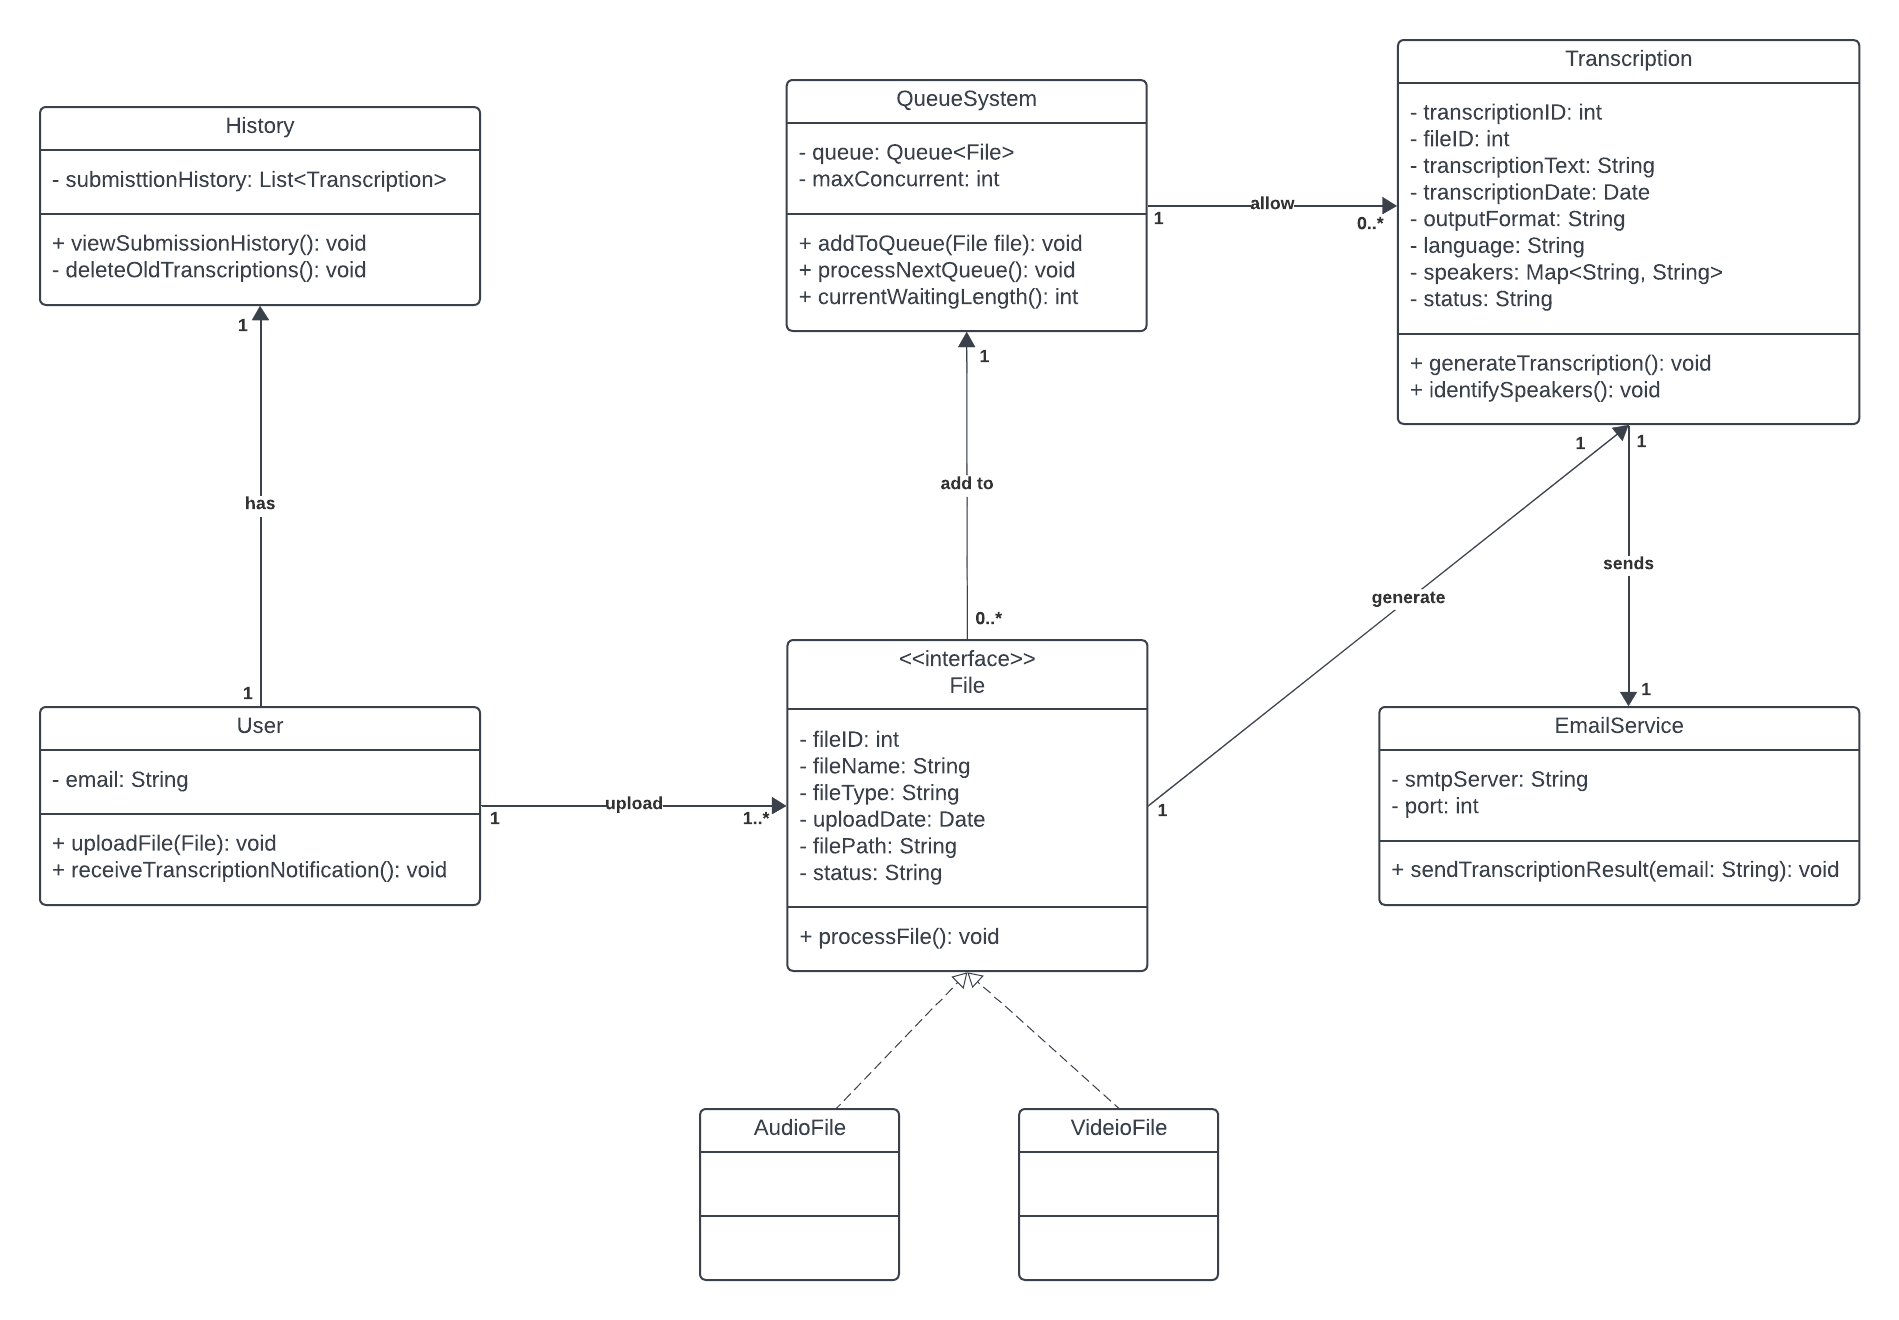
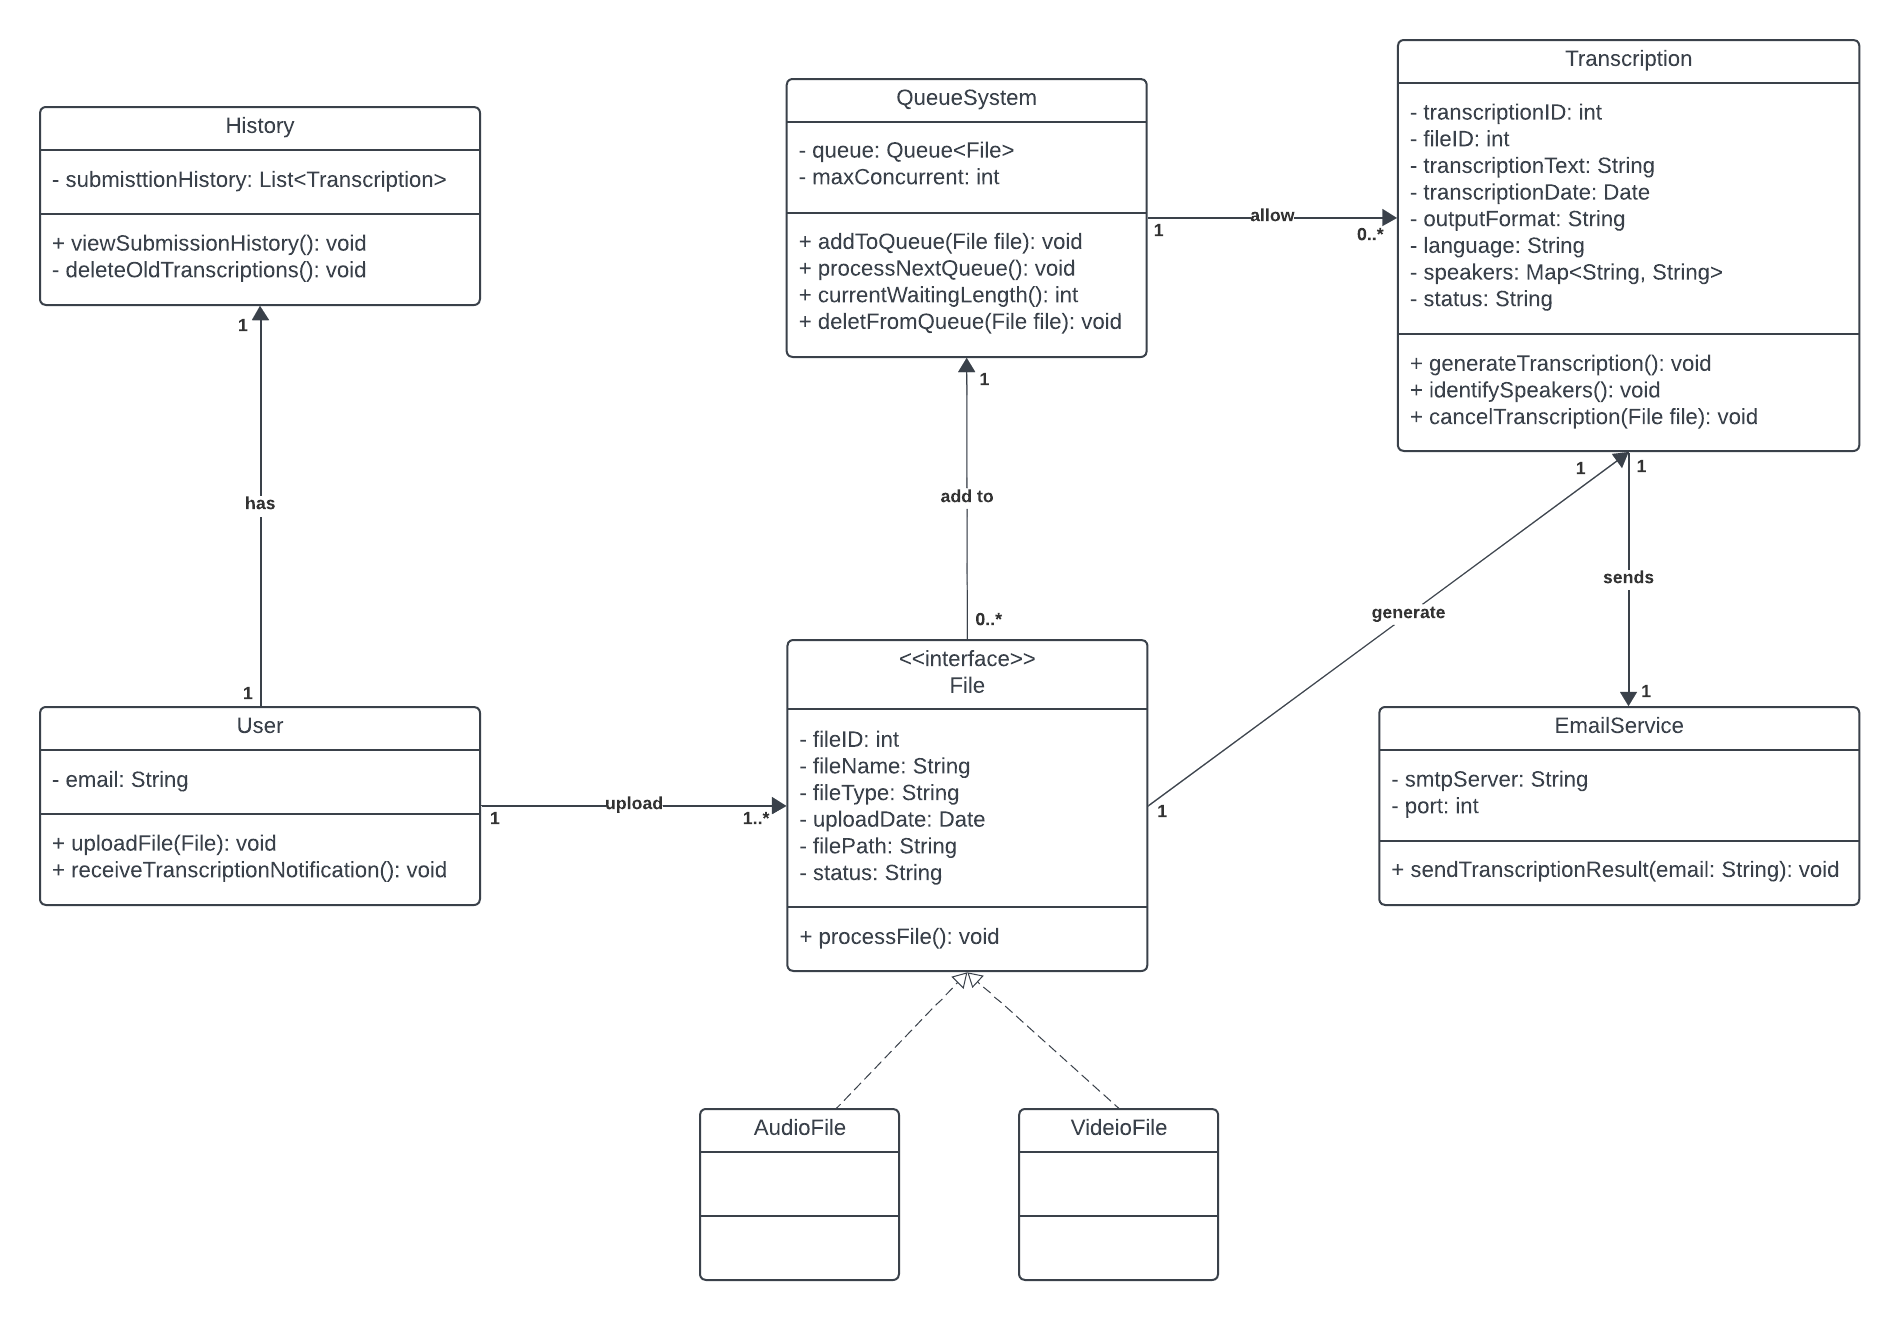
update class diagram

diff --git a/docs/architecture/Class Diagram.md b/docs/architecture/Class Diagram.md
@@ -39,6 +39,7 @@ The class diagram presented is a visual representation of the core components an
   - `addToQueue(File file)`: Adds a file to the processing queue.
   - `processNext()`: Processes the next file in the queue.
   - `currentWaitingLength()`: Returns the number of files currently in the queue.
+  -`deletFromQueue(File file)`: Deletes a file from the queue when the user cancels the file.
 - **Relationships:**
   - The `QueueSystem` has a one-to-many relationship with the `File` interface, managing the files that need to be processed.
 
@@ -55,6 +56,7 @@ The class diagram presented is a visual representation of the core components an
 - **Methods:**
   - `generateTranscription()`: Generates the transcription text from the associated file.
   - `identifySpeakers()`: Differentiates and labels different speakers in the transcription.
+  - `cancelTranscription(File file)`: Allow the user to cancel the transcription during the process.
 - **Relationships:**
   - The `Transcription` class is associated with the `File` interface, indicating that each transcription is generated from a specific file.
   - The `Transcription` class interacts with the `EmailService` class to send the completed transcription to the user.
